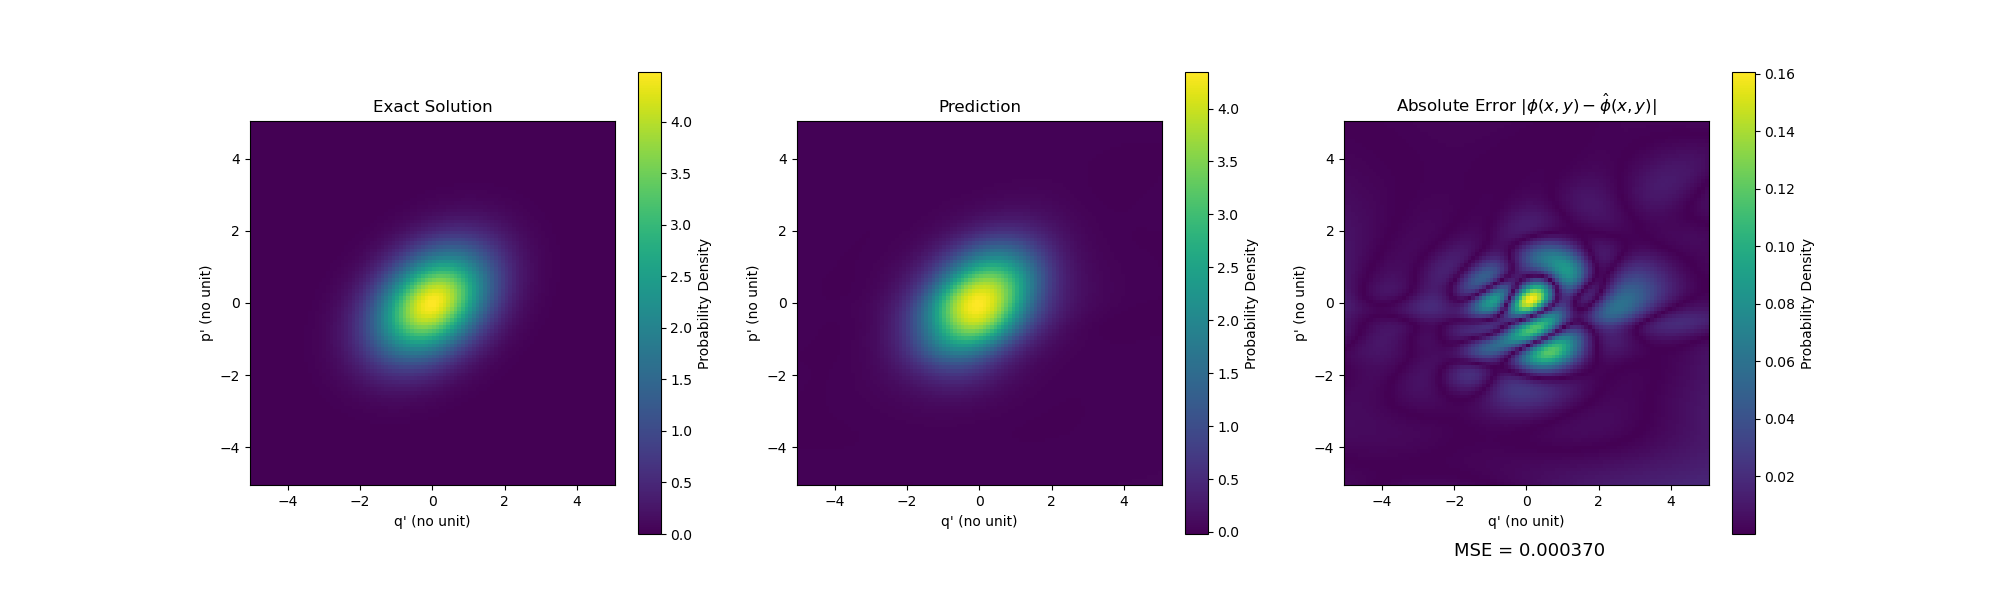
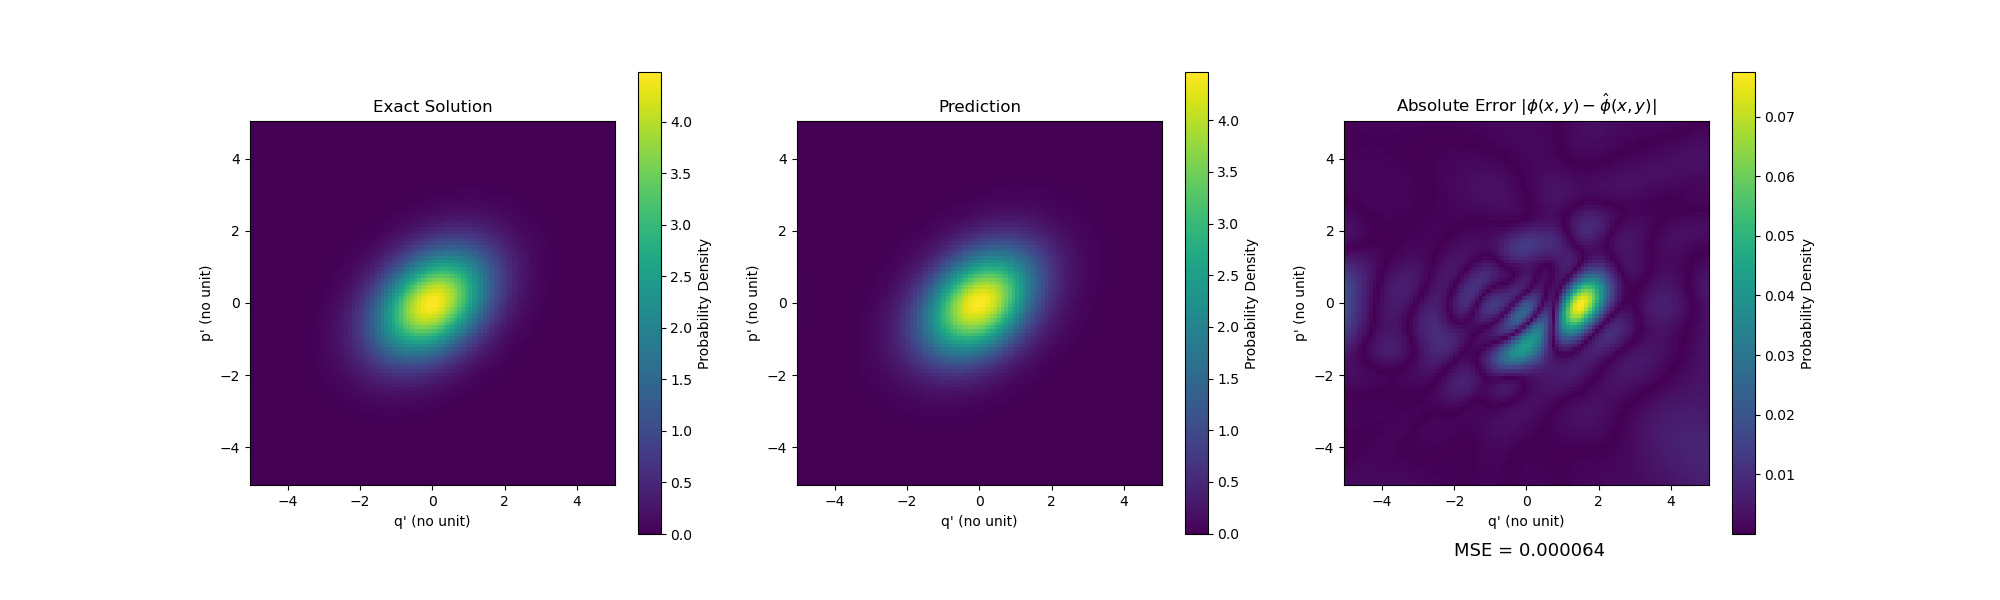
feature_added

diff --git a/models/network.py b/models/network.py
@@ -26,16 +26,22 @@ class PINN(nn.Module):
         # fully connected layers
         self.net = nn.ModuleList([nn.Linear(self.layers[i], self.layers[i+1]) for i in range(len(self.layers)-1)])
         self.init_weights()
-        
-        self.optimizer = torch.optim.LBFGS(self.net.parameters(), lr=0.01, max_iter=2000, max_eval=5000,
-                                           history_size=100, tolerance_grad=1e-05, tolerance_change=1e-09,
-                                           line_search_fn="strong_wolfe")
+
+        if args.optimizer == "adam":
+            self.optimizer = torch.optim.Adam(self.net.parameters(), lr=args.learning_rate)
+        elif args.optimizer == "l-bfgs":
+            self.optimizer = torch.optim.LBFGS(self.net.parameters(), lr=args.learning_rate, max_iter=2000, max_eval=5000,
+                                               history_size=100, tolerance_grad=1e-05, tolerance_change=1e-09,
+                                               line_search_fn="strong_wolfe")
+        else:
+            raise ValueError("Unknown optimizer")
 
         self.iter = 0
         self.loss = 0.0
         
         self.iter_list = []
-        self.loss_list = []
+        self.train_loss_list = []
+        self.valid_loss_list = []
 
         # feature scaling
         self.q_min, self.q_max = args.q_min_max
@@ -119,13 +125,36 @@ class PINN(nn.Module):
         
         self.iter += 1
         
-        if self.iter % 100 == 0:
+        if self.iter % self.args.log_freq == 0:
             print(f"Iteration: {self.iter}, Loss = {self.loss:06f}")
             self.iter_list.append(int(self.iter+1))
-            self.loss_list.append(float(self.loss))
+            self.train_loss_list.append(float(self.loss))
         
         return self.loss
     
-    def train(self):
+    def train_with_lbfgs(self):
         self.net.train()
         self.optimizer.step(self.closure)
+
+    def train_with_adam(self):
+        epochs = self.args.epochs
+        for epoch in range(1, self.args.epochs + 1):
+
+            if epoch % self.args.log_freq == 0:
+                self.iter_list.append(epoch)
+
+            # Training phase
+            self.net.train()
+            self.optimizer.zero_grad()
+            train_loss = self.compute_loss()
+            train_loss.backward()
+            self.optimizer.step()
+
+            if self.args.log_loss:
+                if epoch % self.args.log_freq == 0:
+                    self.net.eval()
+                    val_loss = self.compute_loss()
+
+                    print(f"Epoch {epoch}/{epochs}, train loss: {train_loss.item():.9f}, valid loss: {val_loss.item():.9f}")
+                    self.train_loss_list.append(train_loss.item())
+                    self.valid_loss_list.append(val_loss.item())

diff --git a/boltzmann_equation.py b/boltzmann_equation.py
@@ -18,7 +18,6 @@ from models.network import *
 
 def main(args: argparse.ArgumentParser):
 
-    args.name = "l-bfgs"
     args.checkpoint = os.path.join(args.checkpoint_path, args.name)
     mkdirs([args.checkpoint])
 
@@ -131,11 +130,15 @@ def main(args: argparse.ArgumentParser):
         total_loss = model.compute_loss().item()
         print(f"total loss: {total_loss}")
 
-        model.train()
+        if args.optimizer == "adam":
+            model.train_with_adam()
+        elif args.optimizer == "l-bfgs":
+            model.train_with_lbfgs()
+        
         print(f"training time elapsed: {(time.time() - start):02f}s")
     
         #plotting losses
-        plot_losses(args.checkpoint, model.iter_list, model.loss_list)
+        plot_losses(args.checkpoint, model.iter_list, model.train_loss_list)
     
         # saving model
         torch.save(model.net.state_dict(), path)
@@ -225,10 +228,11 @@ if __name__=="__main__":
 
     # Training parameters
     parser.add_argument("--layers", type=json.loads, default=[3,20,20,20,20,1])
+    parser.add_argument("--optimizer", type=str, default="l-bfgs", help="adam or l-bfgs")
     parser.add_argument("--learning_rate", type=float, default=1e-2)
     parser.add_argument("--epochs", type=int, default=1000)
-    parser.add_argument("--log_epoch_freq", type=int, default=100)
-    parser.add_argument("--save_epoch_freq", type=int, default=1000)
+    parser.add_argument("--log_freq", type=int, default=100)
+    parser.add_argument("--save_freq", type=int, default=1000)
     parser.add_argument("--early_stopping", action="store_true")
     parser.add_argument("--patience", type=int, default=10)
     parser.add_argument("--tolerance", type=float, default=1e-5)

diff --git a/data/data_processing.py b/data/data_processing.py
@@ -24,11 +24,6 @@ def data_processing_with_time(X: np.array,
                                       Y[:, :, initial_condition_index].reshape(-1),
                                       T[:, :, initial_condition_index].reshape(-1)))
     
-    """
-    coordinate_points = np.column_stack((X[:, :, initial_condition_index].reshape(-1),
-                                         Y[:, :, initial_condition_index].reshape(-1)))
-    """
-    
     initial_phi = phi.reshape(-1)
     
     print(initial_points.shape, initial_phi.shape)
